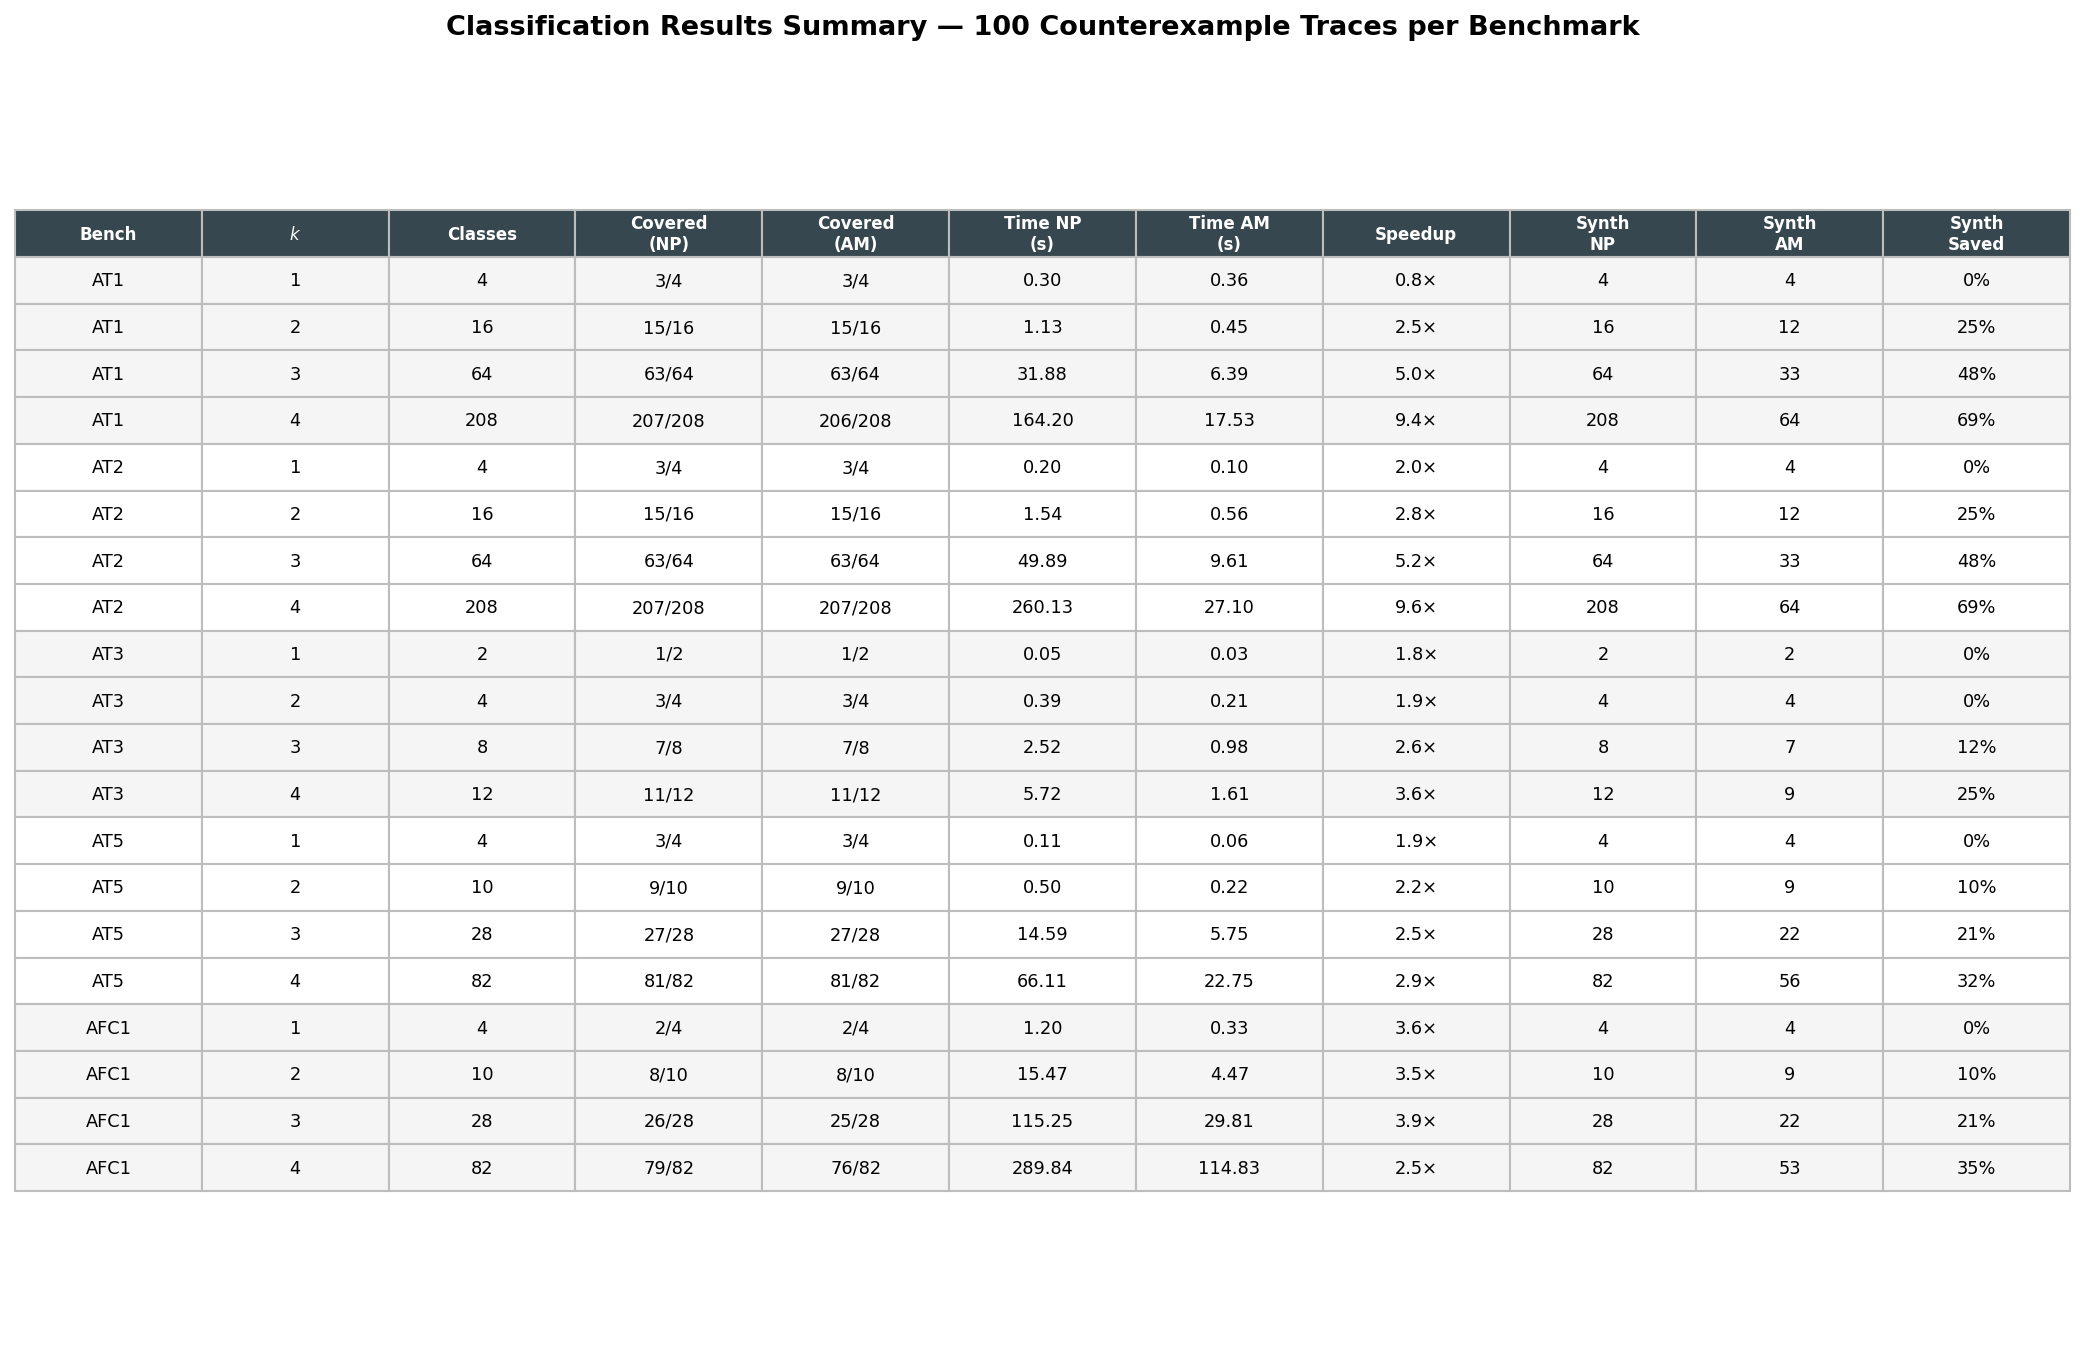
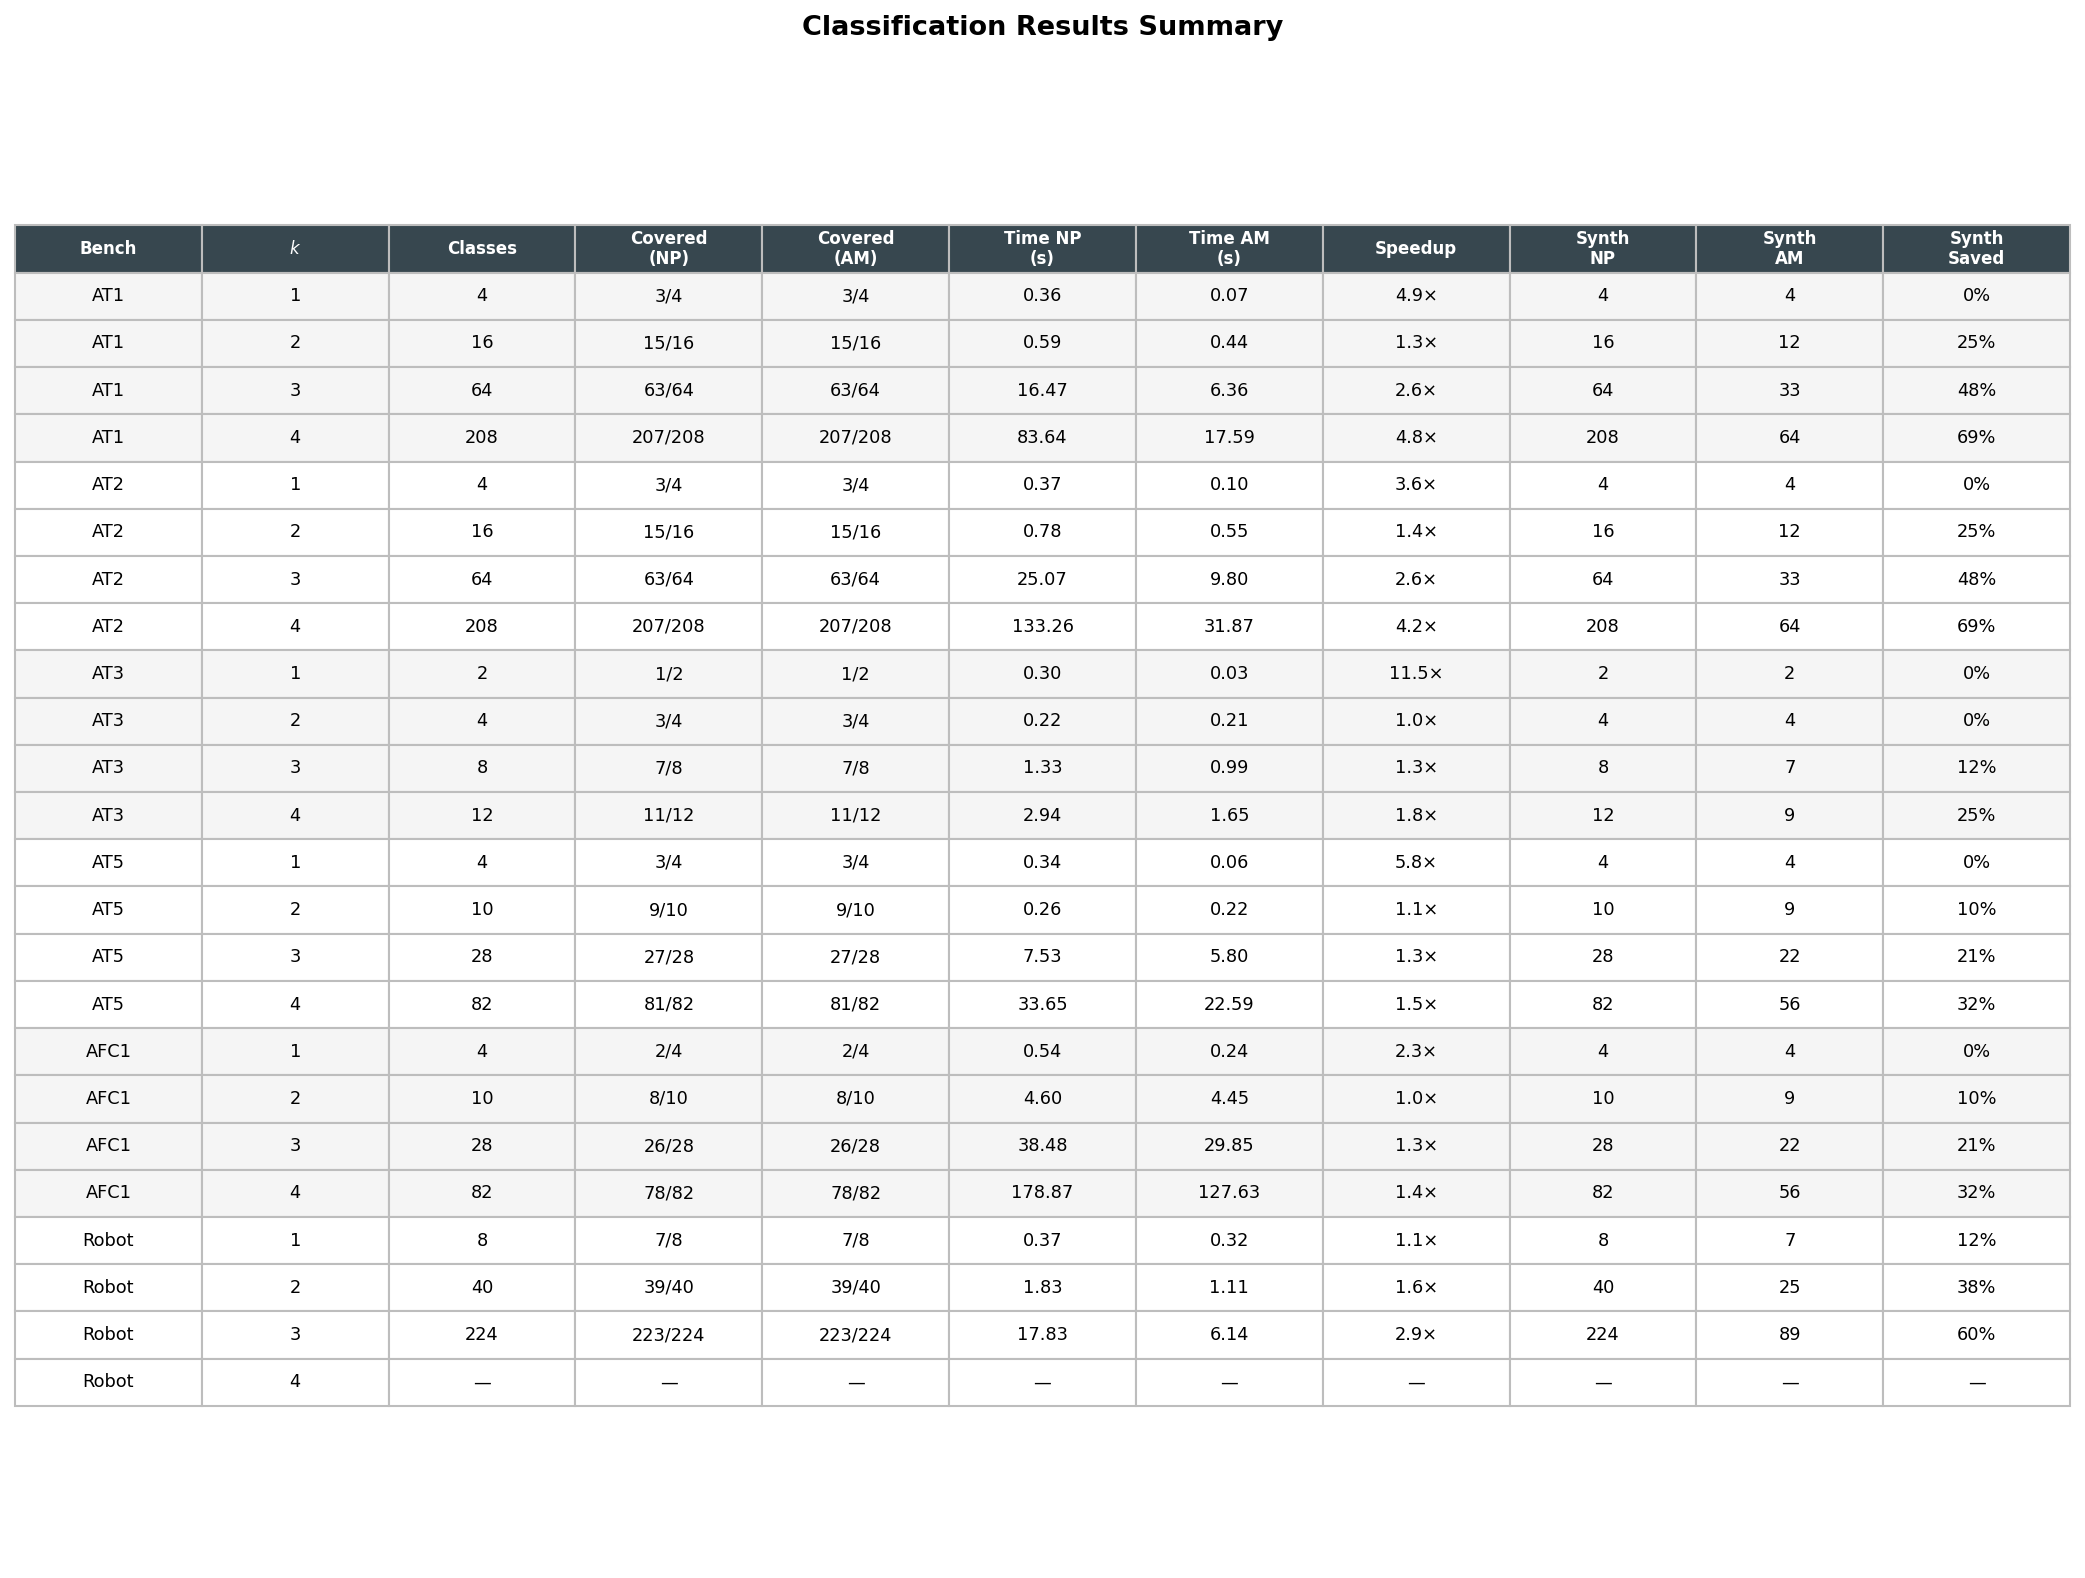
final push

Changed region(s): [[0.0, 0.1245, 0.9976, 0.9029], [0.2182, 0.0, 0.7794, 0.0311], [0.0935, 0.7784, 0.1871, 0.9029]]

diff --git a/plot_paper_results.py b/plot_paper_results.py
@@ -26,13 +26,14 @@ import matplotlib.ticker as mticker
 import numpy as np
 
 
-BENCH_ORDER = ["AT1", "AT2", "AT3", "AT5", "AFC1"]
+BENCH_ORDER = ["AT1", "AT2", "AT3", "AT5", "AFC1", "Robot"]
 BENCH_LABELS = {
     "AT1": r"$\varphi_1^{AT}$",
     "AT2": r"$\varphi_2^{AT}$",
     "AT3": r"$\varphi_3^{AT}$",
     "AT5": r"$\varphi_5^{AT}$",
     "AFC1": r"$\varphi_1^{AFC}$",
+    "Robot": r"$\varphi^{Rob}$",
 }
 K_ORDER = [1, 2, 3, 4]
 
@@ -67,7 +68,7 @@ def get_int(rows: list[dict], bench: str, k: int, strategy: str, key: str) -> in
 # ── Figure 1: Per-benchmark time comparison (paper Fig. 4 style) ─────────
 
 def plot_time_comparison(rows: list[dict], out: Path) -> None:
-    fig, axes = plt.subplots(1, 5, figsize=(18, 4), dpi=150, sharey=False)
+    fig, axes = plt.subplots(1, 6, figsize=(21, 4), dpi=150, sharey=False)
 
     x = np.arange(len(K_ORDER))
     w = 0.35
@@ -119,7 +120,7 @@ def plot_time_comparison(rows: list[dict], out: Path) -> None:
 def plot_speedup_vs_k(rows: list[dict], out: Path) -> None:
     fig, ax = plt.subplots(figsize=(7.5, 4.5), dpi=150)
     cmap = plt.cm.Set1(np.linspace(0, 0.6, len(BENCH_ORDER)))
-    markers = ["o", "s", "D", "^", "v"]
+    markers = ["o", "s", "D", "^", "v", "P"]
 
     for i, bench in enumerate(BENCH_ORDER):
         ks_plot, speedups = [], []
@@ -150,7 +151,7 @@ def plot_speedup_vs_k(rows: list[dict], out: Path) -> None:
 # ── Figure 3: Synthesis calls comparison (all benchmarks) ─────────────────
 
 def plot_synth_calls(rows: list[dict], out: Path) -> None:
-    fig, axes = plt.subplots(1, 5, figsize=(18, 4), dpi=150, sharey=False)
+    fig, axes = plt.subplots(1, 6, figsize=(21, 4), dpi=150, sharey=False)
 
     x = np.arange(len(K_ORDER))
     w = 0.35
@@ -192,7 +193,7 @@ def plot_synth_calls(rows: list[dict], out: Path) -> None:
 # ── Figure 4: Coverage comparison ─────────────────────────────────────────
 
 def plot_coverage_comparison(rows: list[dict], out: Path) -> None:
-    fig, axes = plt.subplots(1, 5, figsize=(18, 3.8), dpi=150, sharey=True)
+    fig, axes = plt.subplots(1, 6, figsize=(21, 3.8), dpi=150, sharey=True)
 
     x = np.arange(len(K_ORDER))
     w = 0.35
@@ -291,7 +292,7 @@ def plot_summary_table(rows: list[dict], out: Path) -> None:
             cell.set_text_props(color="white", fontweight="bold", fontsize=8)
         cell.set_edgecolor("#BDBDBD")
 
-    ax.set_title("Classification Results Summary — 100 Counterexample Traces per Benchmark",
+    ax.set_title("Classification Results Summary",
                  fontsize=13, fontweight="bold", pad=16)
     fig.tight_layout()
     fig.savefig(out, bbox_inches="tight")
